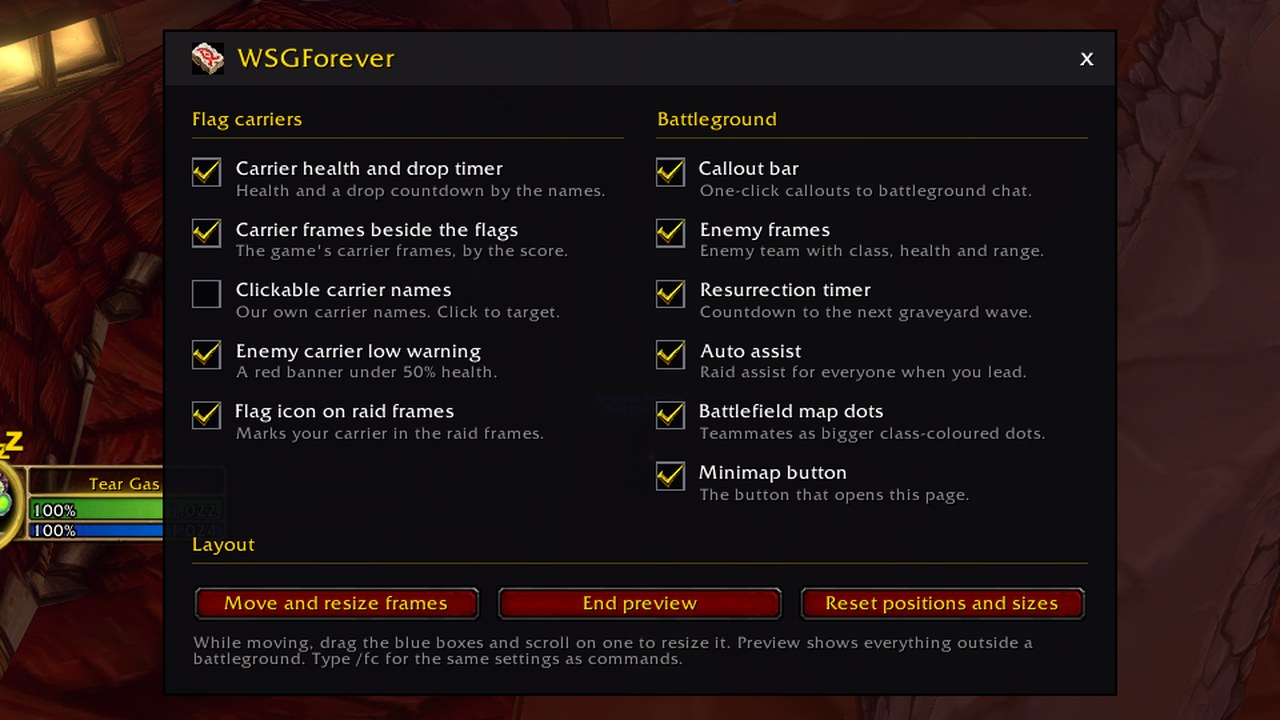
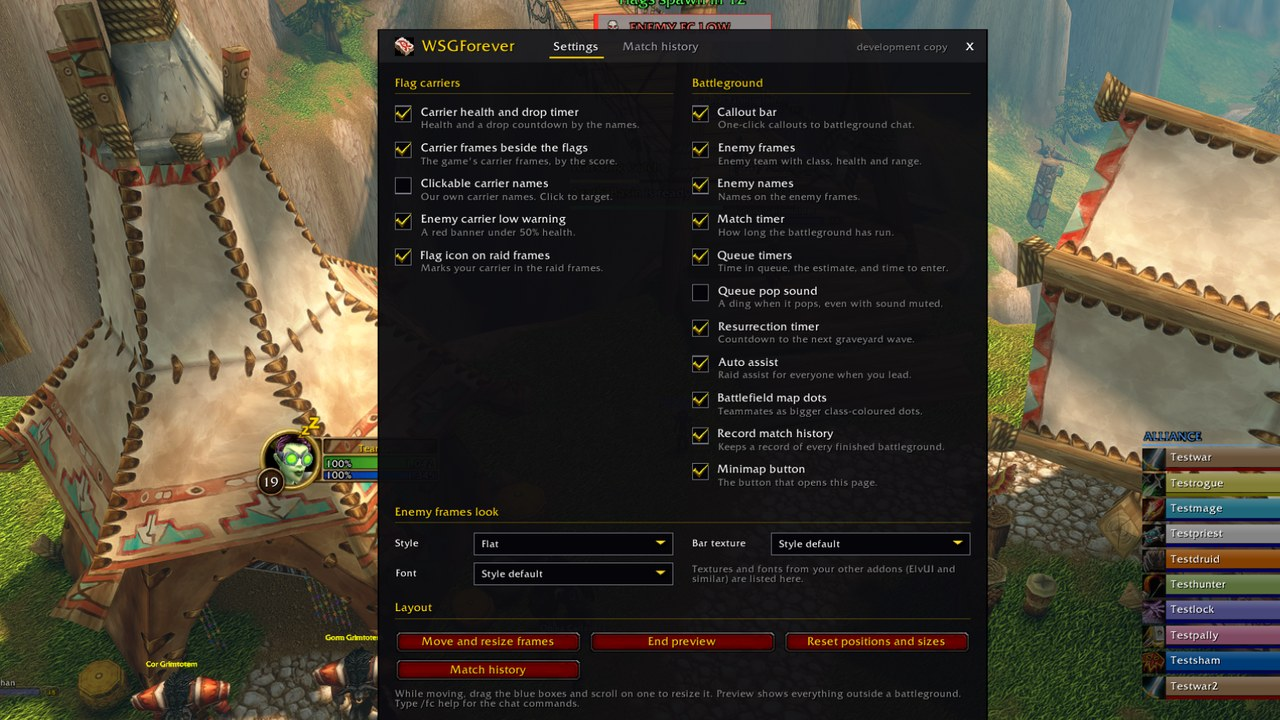
README: real match screenshots and every current feature
Overview, carriers and timers, enemy frames with callouts, Arathi Basin
callouts, match history with a scoreboard, queue pop and settings, most
of them from a live Warsong Gulch match. A short 'why' section up top.

diff --git a/README.md b/README.md
@@ -1,48 +1,62 @@
 <p align="center"><img src="media/banner.jpg" alt="WSGForever: Warsong Gulch tools for WoW Forever"></p>
 
-WSGForever is a Warsong Gulch addon for **World of Warcraft: Forever**. It helps your team track both flag carriers, call out where the enemy carrier is, watch the enemy team, and time the graveyard waves.
+The Warsong Gulch addon for **World of Warcraft: Forever**. See who carries each flag and how hurt they are, know when the next graveyard wave lands, watch the whole enemy team, and tell your team where the enemy carrier is in one click.
 
 Get it on [CurseForge](https://www.curseforge.com/wow/addons/wsgforever) or from the [releases page](https://github.com/lichuu/WSGForever/releases).
 
+![A Warsong Gulch match with WSGForever](media/gallery/overview.jpg)
+
+## Why WSGForever
+- **One addon instead of a pile of WeakAuras.** Callouts, carrier tracking, timers, enemy frames and match history in one place, and they work together.
+- **Built for Forever.** Forever hides some information from addons. Everything here is built around what the game actually allows, and tested in real matches.
+- **Stays out of your way.** Every part can be turned off, moved and resized, with eleven looks for the enemy frames, including ones that follow ElvUI and EllesmereUI.
+- **Free and open source** (MIT).
+
 ## Features
 
-### Flag and rez timers
-![Drop countdown, rez timer, flag spawn timer and the enemy carrier low banner](media/gallery/timers.jpg)
+### Flag carriers and timers
+![Carrier health, match timer and rez timer at the top of the screen](media/gallery/carriers-timers.jpg)
 
-Carrier health sits beside the score. A countdown shows when a dropped flag returns and when the flags spawn again after a capture, and a red banner warns when the enemy carrier is under half health. The rez timer counts down to the next graveyard wave in every battleground.
+Both flag carriers' health beside the score, a countdown when a flag is dropped, and one when the flags spawn again after a capture. A red banner warns when the enemy carrier is under half health. A match timer beside the score counts from the moment the gates open, and the rez timer counts down to the next graveyard wave with how many enemies are waiting to come back.
 
-### Enemy frames
-![The enemy team list](media/gallery/enemy-frames.jpg)
+### Enemy frames and callouts
+![Enemy frames, callout bar and battlefield map during a match](media/gallery/in-match.jpg)
 
-The whole enemy team with class, health, mana, range, who is dead and how many teammates are targeting each player. The flag carrier is highlighted. Left click targets, right click sets focus, middle click pings. Pick one of eleven looks on the settings tab, including ones that follow your ElvUI or EllesmereUI settings, and optionally a bar texture and font, including those your other addons share.
+The whole enemy team with class, health, mana, range, who is dead and how many of your team are on each player; the flag carrier is highlighted. Left click targets, right click sets focus, middle click pings. The callout bar tells your team where the enemy carrier is in one click, from flag room to midfield, with buttons for pick up, cap and enemy carrier low.
 
-### Callout bar
-![The callout bar](media/gallery/callout-bar.jpg)
+### Arathi Basin callouts
+![The Arathi Basin callout bar](media/gallery/ab-callouts.jpg)
 
-One click tells your team where the enemy flag carrier is: both bases, midfield, and buttons for pick up, cap and "EFC low". In Arathi Basin the bar switches to Incoming, Big incoming, Safe and Help for each of the five nodes.
+In Arathi Basin the bar switches to Incoming, Big incoming, Safe and Help for each of the five nodes, each with its own icon.
+
+### Match history
+![Match history with a match's final scoreboard](media/gallery/match-history.jpg)
+
+Every battleground you finish is recorded: result, flag score, length, and your kills, deaths, honor, captures and returns. Hover a match to see its final scoreboard, both teams in class colours. Already using Nova Instance Tracker? Import the battlegrounds it recorded.
 
 ### Battlefield map
 ![Teammates as class-coloured dots on the battlefield map](media/gallery/battlefield-map.jpg)
 
-Teammates show as larger dots in their class colours. `/fc scale map` and `/fc scale mapdots` resize the map and the dots.
+Teammates show as larger dots in their class colours.
+
+### Queue pop countdown
+![Countdown under the battleground ready window](media/gallery/queue-pop.jpg)
+
+When your queue pops, a countdown under the ready window shows how long is left to enter. An optional ding plays even with sound effects muted.
 
 ### Settings
 ![The settings window](media/gallery/settings.jpg)
 
-A minimap button opens a settings page for every feature, also listed under Options > AddOns. Every option is a `/fc` command too.
-
-### Match history
-Every battleground you finish is recorded: win or loss, the flag score, how long it took, and your kills, deaths, honor, captures and returns. It lives on the Match history tab of the settings window (`/fc history`), with your overall record at the top. If you use Nova Instance Tracker, you can import the battlegrounds it already recorded.
+A minimap button opens a settings window with every option, and a second tab for match history. It is also under Options > AddOns.
 
 ### Key bindings
-Every callout can be bound to a key in the game's Key Bindings menu, under WSGForever. So can targeting or pinging the enemy flag carrier and pinging your own.
+Every callout can be bound to a key in the game's Key Bindings menu, under WSGForever, and so can targeting or pinging the enemy flag carrier and pinging your own.
 
 ### Also
-- A countdown of how long is left to enter when a battleground queue pops.
-- A match timer beside the score, showing how long the battleground has run.
 - A flag icon on your team's carrier in the raid frames.
 - The game's carrier frames moved up beside the score.
 - Raid assist for everyone when you lead a battleground.
+- `/fc who` shows who else in your group runs WSGForever.
 
 ## Install
 Copy the `WSGForever` folder into `World of Warcraft/_forever_/Interface/AddOns/`.
